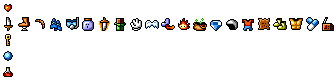
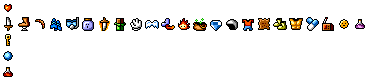
Special NPC stuff

diff --git a/src/specialnpc.js b/src/specialnpc.js
@@ -8,6 +8,7 @@ import { Flip } from "./core/canvas.js";
 import { Sprite } from "./core/sprite.js";
 import { Vector2 } from "./core/vector.js";
 import { InteractableObject } from "./interactableobject.js";
+import { ItemType } from "./progress.js";
 
 
 export class SpecialNPC extends InteractableObject {
@@ -23,7 +24,7 @@ export class SpecialNPC extends InteractableObject {
         this.hitbox = new Vector2(12, 16);
         this.spr.frame = (Math.random() * 4) | 0;
 
-        this.spr.setFrame(0, id);
+        this.spr.setFrame(0, id % 2);
 
         this.id = id;
 
@@ -37,7 +38,7 @@ export class SpecialNPC extends InteractableObject {
 
         if (!this.inCamera) return;
 
-        this.spr.animate(this.id, 0, 3, ANIM_SPEED, ev.step);
+        this.spr.animate(this.id % 2, 0, 3, ANIM_SPEED, ev.step);
     }
 
 
@@ -48,6 +49,59 @@ export class SpecialNPC extends InteractableObject {
         this.spr.draw(c, c.bitmaps["specialNPC"],
             this.pos.x-12, this.pos.y-12,
             this.flip);
+    }
+
+    payCondition() {
+
+        switch(this.id) {
+
+        case 0:
+            return this.progress.coins >= 30;
+
+        case 1:
+            return this.progress.hasItem(ItemType.Dummy);
+
+        case 2:
+            return this.progress.hasItem(ItemType.LifePotion);
+
+        default:
+            return false;
+        }
+    }
+
+
+    payEvent() {
+
+        switch(this.id) {
+
+        case 0:
+            
+            this.progress.addCoins(-30);
+            this.progress.addOrbs(1);
+
+            break;
+    
+        case 1:
+
+            this.progress.removeItem(ItemType.Dummy);
+            this.progress.obtainItem(ItemType.GoldenSword);
+
+            this.deactivated = true;
+
+            break;
+
+        case 2:
+
+            this.progress.removeItem(ItemType.LifePotion);
+            this.progress.obtainItem(ItemType.GoldenBoomerang);
+
+            this.deactivated = true;
+
+            break;
+    
+        default:
+            break;
+        }
     }
 
     
@@ -61,7 +115,22 @@ export class SpecialNPC extends InteractableObject {
         }
         message.activate((ev) => {
 
-            // 
+            if (!this.payCondition())
+                return;
+
+            message.addMessage(loc["specialQuestion"][this.id])
+                .activate((ev) => {
+
+                    this.payEvent();
+                    message.addMessage(loc["specialReply"][this.id])
+                        .activate((ev) => {
+
+                            if (this.id == 0)
+                                this.id = 2;
+
+                        }, false);
+
+                }, true, true);
 
         }, false);
 

diff --git a/src/messagebox.js b/src/messagebox.js
@@ -51,6 +51,8 @@ export class MessageBox {
         );
         this.confirm = false;
         this.finished = false;
+
+        this.doNotDeactivate = false;
     }
 
 
@@ -98,7 +100,7 @@ export class MessageBox {
 
 
 
-    activate(acceptCb, confirm) {
+    activate(acceptCb, confirm, doNotDeactivate) {
 
         this.active = true;
         this.charTimer = 0;
@@ -113,6 +115,8 @@ export class MessageBox {
         this.finished = false;
 
         this.confirmationMenu.activate(1);
+
+        this.doNotDeactivate = Boolean(doNotDeactivate);
     }
 
 
@@ -184,7 +188,9 @@ export class MessageBox {
 
                             this.acceptCb(ev);
                         }
-                        this.deactivate();
+
+                        if(!this.doNotDeactivate)
+                            this.deactivate();
                     }
 
                 }

diff --git a/src/progress.js b/src/progress.js
@@ -34,8 +34,9 @@ export const ItemType = {
     TreasureTracker: 20,
     
     Dummy: 21,
-    GoldenSword: 22,
-    GoldenBoomerang: 23,
+    LifePotion: 22,
+    GoldenSword: 23,
+    GoldenBoomerang: 24,
 };
 
 
@@ -222,6 +223,12 @@ export class GameProgress {
 
             this.addCoins(GEM_COIN_BONUS);
         }
+    }
+
+
+    removeItem(id) {
+
+        this.obtainedItems[id] = false;
     }
 
 
